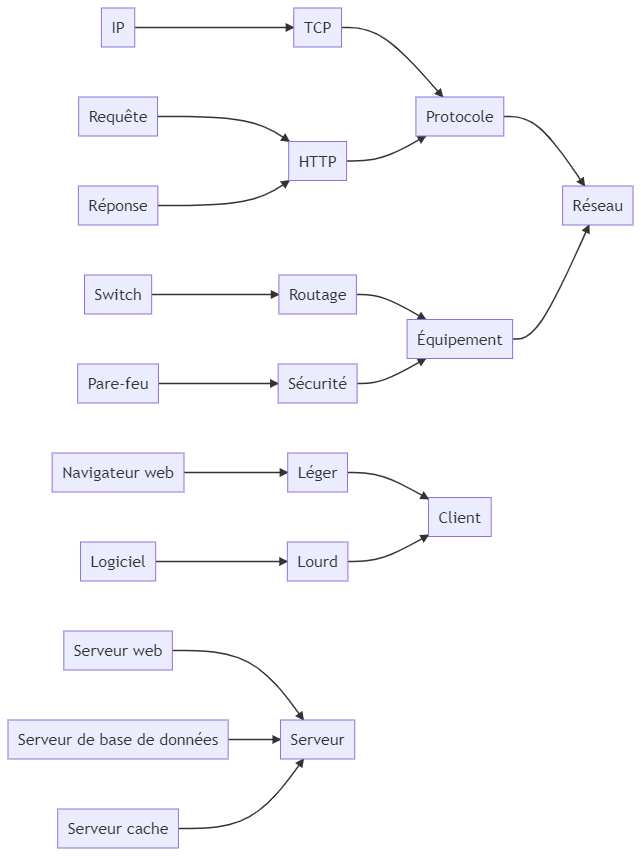
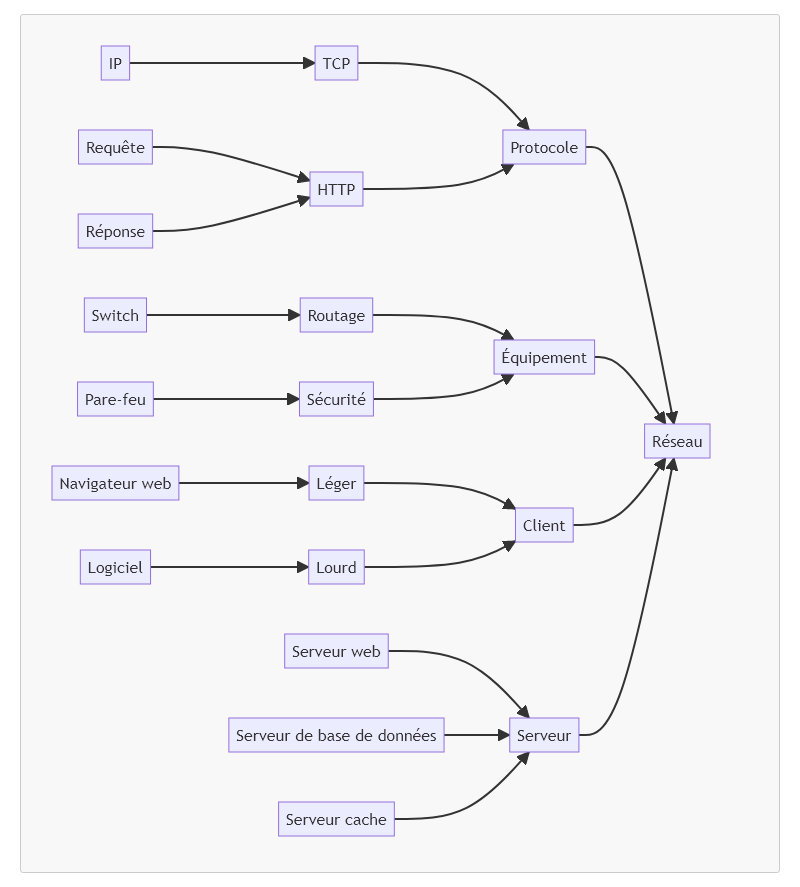
avancement

diff --git a/markdown/mermaid_v3.md b/markdown/mermaid_v3.md
@@ -2,7 +2,8 @@
 graph LR
     Protocole -- utilise --> Réseau
     TCP -- est_un_type --> Protocole
-    IP -- se_base --> TCP
+    IP -- peut_utiliser --> TCP
+    IP -- est_un_type --> Protocole
     IPv4 -- est_une_implémentation_32bits --> IP
     IPv6 -- est_une_implémentation_64bits --> IP
     HTTP -- est_un_type --> Protocole
@@ -15,16 +16,15 @@ graph LR
 
     Équipement -- est_connecté --> Réseau
     Routage -- est_un_type --> Équipement
-    Switch -- s'occupe --> Routage
+    Switch -- est_chargé --> Routage
     Sécurité -- est_un_type --> Équipement
-    Pare-feu -- s'occupe --> Sécurité
+    Pare-feu -- est_chargé --> Sécurité
 
-    Léger -- est_un_type --> Client
-    Navigateur[Navigateur web] -- est_un_type --> Léger
+    Navigateur[Navigateur web] -- est_un_type --> Client
     Chrome -- est --> Navigateur
     Firefox -- est --> Navigateur
-    Lourd -- est_un_type --> Client
-    Logiciel -- est_un_type --> Lourd
+    Logiciel -- est_un_type --> Client
+    Client --> Réseau
 
     Frontal[Serveur web] -- est_un_type --> Serveur
     IIS -- est --> Frontal
@@ -35,5 +35,6 @@ graph LR
     Cache[Serveur cache] -- est_un_type --> Serveur
     Redis -- est --> Cache
     Memcached -- est --> Cache
+    Serveur --> Réseau
 
 ```

diff --git a/markdown/mermaid_v2.md b/markdown/mermaid_v2.md
@@ -2,7 +2,8 @@
 graph LR
     Protocole -- utilise --> Réseau
     TCP -- est_un_type --> Protocole
-    IP -- se_base --> TCP
+    IP -- peut_utiliser --> TCP
+    IP -- est_un_type --> Protocole
     IPv4 -- est_une_implémentation_32bits --> IP
     IPv6 -- est_une_implémentation_64bits --> IP
     HTTP -- est_un_type --> Protocole
@@ -19,12 +20,11 @@ graph LR
     Sécurité --> Équipement
     Pare-feu --> Sécurité
 
-    Léger --> Client
-    Navigateur[Navigateur web] --> Léger
     Chrome --> Navigateur
     Firefox --> Navigateur
-    Lourd --> Client
-    Logiciel --> Lourd
+    Navigateur[Navigateur web] --> Client
+    Logiciel --> Client
+    Client --> Réseau
 
     Frontal[Serveur web] --> Serveur
     IIS --> Frontal
@@ -35,5 +35,6 @@ graph LR
     Cache[Serveur cache] --> Serveur
     Redis --> Cache
     Memcached --> Cache
+    Serveur --> Réseau
 
 ```

diff --git a/markdown/mermaid_v1.md b/markdown/mermaid_v1.md
@@ -3,6 +3,7 @@ graph LR
     Protocole --> Réseau
     TCP --> Protocole
     IP --> TCP
+    IP --> Protocole
     HTTP --> Protocole
     Requête --> HTTP
     Réponse --> HTTP
@@ -13,13 +14,13 @@ graph LR
     Sécurité --> Équipement
     Pare-feu --> Sécurité
 
-    Léger --> Client
-    Navigateur[Navigateur web] --> Léger
-    Lourd --> Client
-    Logiciel --> Lourd
+    Navigateur[Navigateur web] --> Client
+    Logiciel --> Client
+    Client --> Réseau
 
     Frontal[Serveur web] --> Serveur
     BDD[Serveur de base de données] --> Serveur
     Cache[Serveur cache] --> Serveur
+    Serveur --> Réseau
 
 ```

diff --git a/markdown/mermaid_v2_sub.md b/markdown/mermaid_v2_sub.md
@@ -2,7 +2,8 @@
 graph LR
     Protocole -- utilise --> Réseau
     TCP -- est_un_type --> Protocole
-    IP -- se_base --> TCP
+    IP -- peut_utiliser --> TCP
+    IP -- est_un_type --> Protocole
     IPv4 -- est_une_implémentation_32bits --> IP
     IPv6 -- est_une_implémentation_64bits --> IP
     HTTP -- est_un_type --> Protocole
